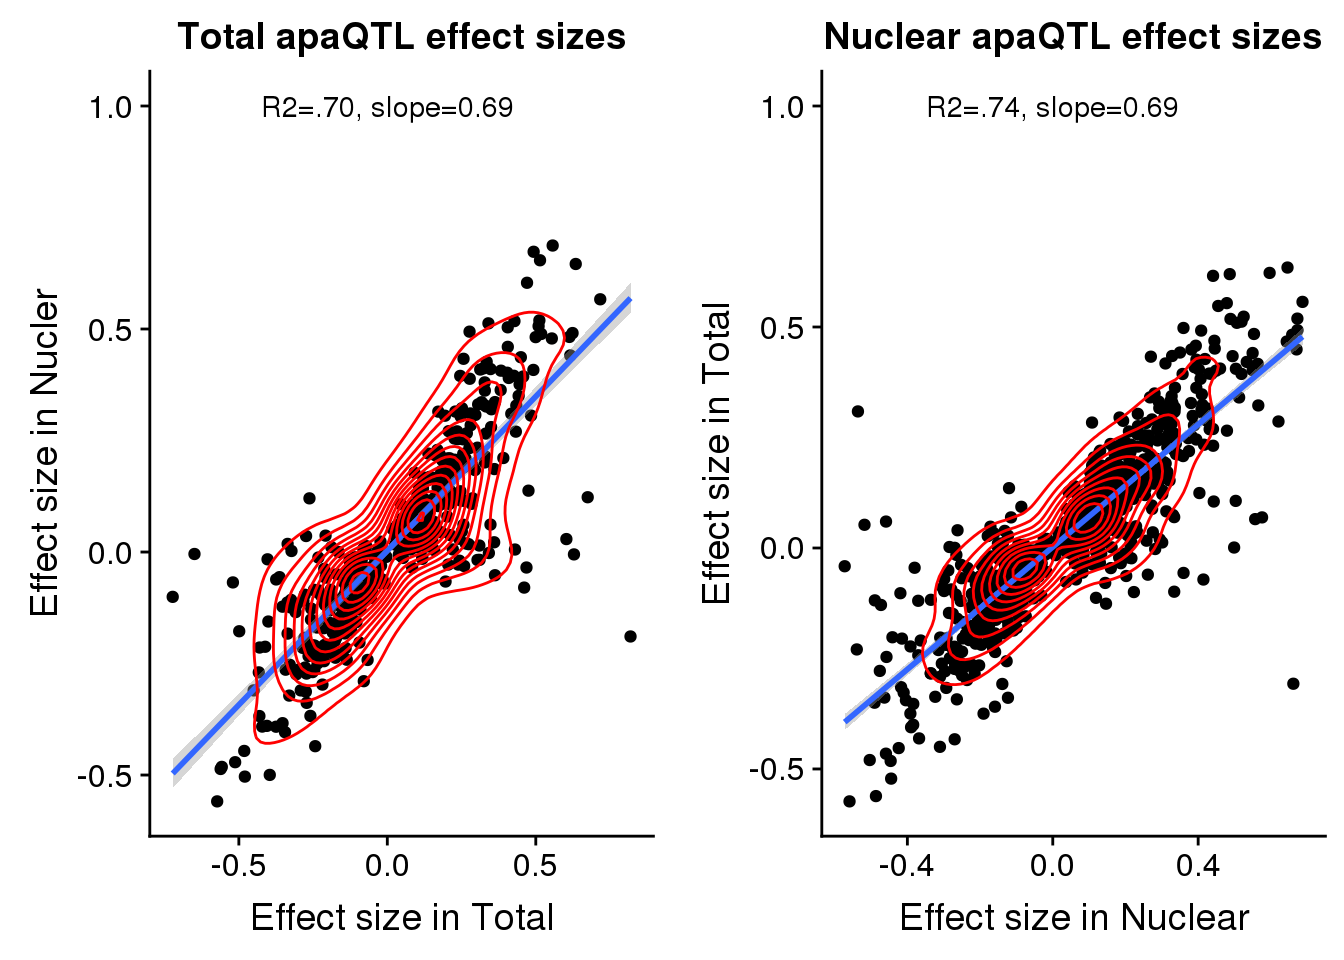
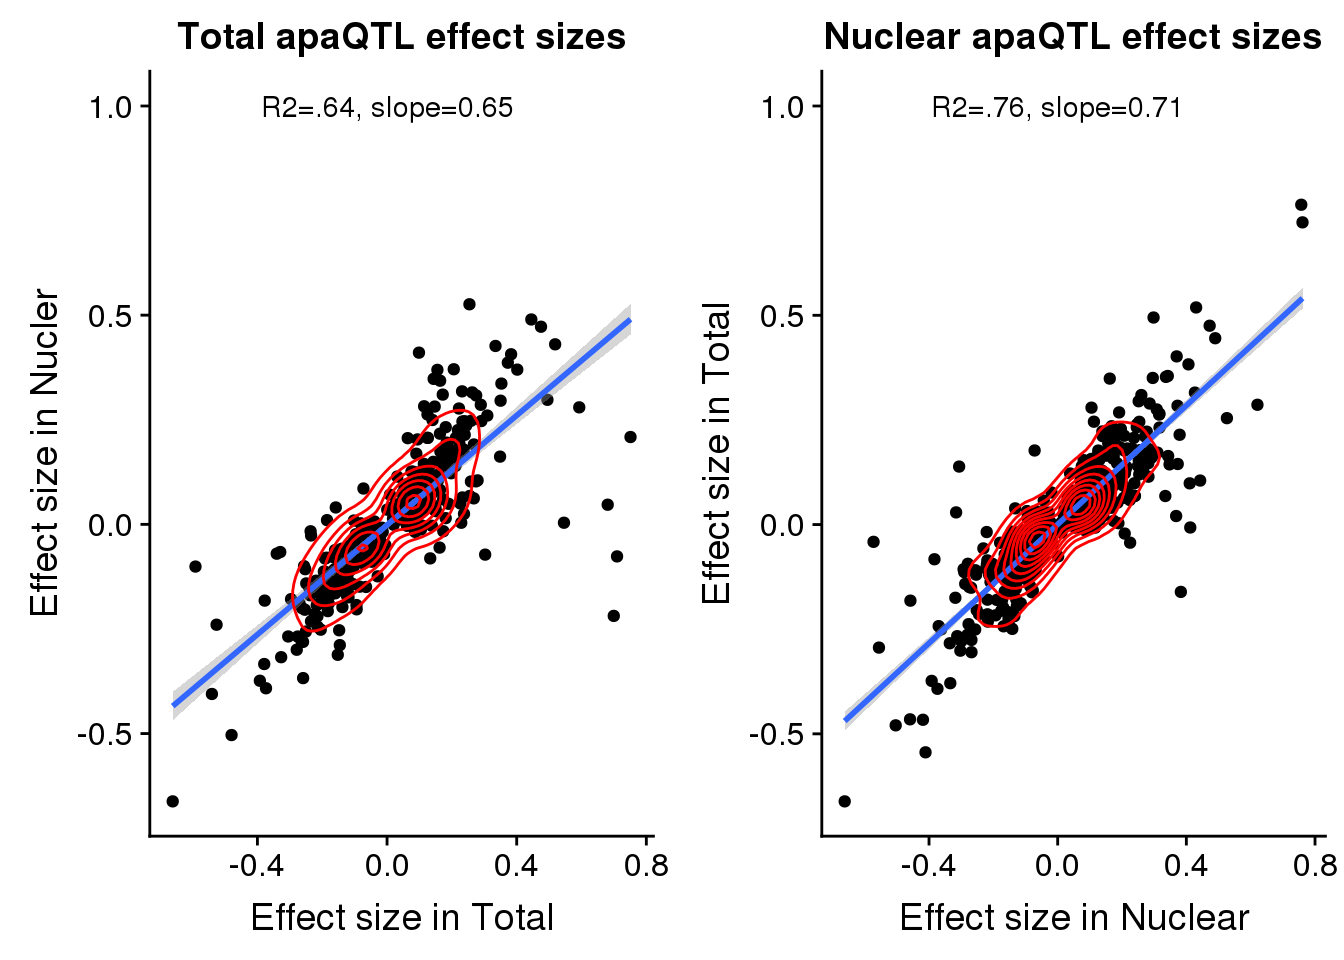
Build site.

diff --git a/docs/nonNormQTL.html b/docs/nonNormQTL.html
@@ -343,7 +343,7 @@ div.section {
 <div class="tab-content">
 <div id="summary" class="tab-pane fade in active">
 <p>
-<strong>Last updated:</strong> 2019-06-11
+<strong>Last updated:</strong> 2019-06-13
 </p>
 <p>
 <strong>Checks:</strong> <span class="glyphicon glyphicon-ok text-success" aria-hidden="true"></span> 6 <span class="glyphicon glyphicon-exclamation-sign text-danger" aria-hidden="true"></span> 0
@@ -422,10 +422,10 @@ This reproducible <a href="http://rmarkdown.rstudio.com">R Markdown</a> analysis
 <div class="panel panel-default">
 <div class="panel-heading">
 <p class="panel-title">
-<a data-toggle="collapse" data-parent="#workflowr-checks" href="#strongRepositoryversionstrongahrefhttpsgithubcombrimittlemanapaQTLtreecd24c16d24e93a4215fe989452901d889e7b3d00targetblankcd24c16a"> <span class="glyphicon glyphicon-ok text-success" aria-hidden="true"></span> <strong>Repository version:</strong> <a href="https://github.com/brimittleman/apaQTL/tree/cd24c16d24e93a4215fe989452901d889e7b3d00" target="_blank">cd24c16</a> </a>
+<a data-toggle="collapse" data-parent="#workflowr-checks" href="#strongRepositoryversionstrongahrefhttpsgithubcombrimittlemanapaQTLtree968cb4bd991960619bfe28be8c0a7ae8958e175atargetblank968cb4ba"> <span class="glyphicon glyphicon-ok text-success" aria-hidden="true"></span> <strong>Repository version:</strong> <a href="https://github.com/brimittleman/apaQTL/tree/968cb4bd991960619bfe28be8c0a7ae8958e175a" target="_blank">968cb4b</a> </a>
 </p>
 </div>
[2 lines of base64/hex data omitted]
 <div class="panel-body">
 <p>
 Great! You are using Git for version control. Tracking code development and connecting the code version to the results is critical for reproducibility. The version displayed above was the version of the Git repository at the time these results were generated. <br><br> Note that you need to be careful to ensure that all relevant files for the analysis have been committed to Git prior to generating the results (you can use <code>wflow_publish</code> or <code>wflow_git_commit</code>). workflowr only checks the R Markdown file, but you know if there are other scripts or data files that it depends on. Below is the status of the Git repository when the results were generated:
@@ -435,6 +435,7 @@ Ignored files:
     Ignored:    .DS_Store
     Ignored:    .Rhistory
     Ignored:    .Rproj.user/
+    Ignored:    data/.DS_Store
     Ignored:    output/.DS_Store
 
 Untracked files:
@@ -444,6 +445,7 @@ Untracked files:
     Untracked:  _workflowr.yml
     Untracked:  analysis/._PASdescriptiveplots.Rmd
     Untracked:  analysis/._cuttoffPercUsage.Rmd
+    Untracked:  analysis/QTLexampleplots.Rmd
     Untracked:  analysis/cuttoffPercUsage.Rmd
     Untracked:  analysis/eQTLoverlap.Rmd
     Untracked:  analysis/oldstuffNotNeeded.Rmd
@@ -466,6 +468,8 @@ Untracked files:
     Untracked:  code/._NascentRNAdtPlotintronicPAS.sh
     Untracked:  code/._NascnetRNAdtPlotPAS.sh
     Untracked:  code/._NetSeq_fourthintronDT.sh
+    Untracked:  code/._QTL2bed.py
+    Untracked:  code/._QTL2bed_withstrand.py
     Untracked:  code/._SnakefilePAS
     Untracked:  code/._SnakefilefiltPAS
     Untracked:  code/._TESplots100bp.sh
@@ -495,12 +499,14 @@ Untracked files:
     Untracked:  code/._config.yaml
     Untracked:  code/._config2.yaml
     Untracked:  code/._configOLD.yaml
+    Untracked:  code/._convertNominal2SNPLOC.py
     Untracked:  code/._convertNumeric.py
     Untracked:  code/._correctNomeqtl.R
     Untracked:  code/._dag.pdf
     Untracked:  code/._eQTLgenestestedapa.py
     Untracked:  code/._encodeRNADTplots.sh
     Untracked:  code/._extractGenotypes.py
+    Untracked:  code/._extractseqfromqtlfastq.py
     Untracked:  code/._fc2leafphen.py
     Untracked:  code/._filter5perc.R
     Untracked:  code/._filter5percPheno.py
@@ -525,6 +531,7 @@ Untracked files:
     Untracked:  code/._getIntronDownstreamPAS.py
     Untracked:  code/._getIntronUpstreamPAS.py
     Untracked:  code/._getQTLalleles.py
+    Untracked:  code/._getQTLfastq.sh
     Untracked:  code/._getUpstreamIntronNuclear.py
     Untracked:  code/._grouptranscripts.py
     Untracked:  code/._keep5perMAF.py
@@ -562,6 +569,8 @@ Untracked files:
     Untracked:  code/._runMakeEmpiricaleQTL_unexp.sh
     Untracked:  code/._runMakeeQTLempirical.sh
     Untracked:  code/._run_getApaPval4eqtl.sh
+    Untracked:  code/._run_getapafromeQTL.py
+    Untracked:  code/._run_getapafromeQTL.sh
     Untracked:  code/._run_getapapval4eqtl_unexp.sh
     Untracked:  code/._run_leafcutterDiffIso.sh
     Untracked:  code/._run_sepUsagephen.sh
@@ -643,6 +652,8 @@ Untracked files:
     Untracked:  code/NascentRNAdtPlotintronicPAS.sh
     Untracked:  code/NascnetRNAdtPlotPAS.sh
     Untracked:  code/NetSeq_fourthintronDT.sh
+    Untracked:  code/QTL2bed.py
+    Untracked:  code/QTL2bed_withstrand.py
     Untracked:  code/README.md
     Untracked:  code/Rplots.pdf
     Untracked:  code/TESplots100bp.err
@@ -661,6 +672,7 @@ Untracked files:
     Untracked:  code/apaQTLCorrectPvalMakeQQ_4pc.R
     Untracked:  code/apaQTL_Nominal_4pc.sh
     Untracked:  code/apaQTL_permuted.4pc.sh
+    Untracked:  code/apafacetboxplots.R
     Untracked:  code/apaqtlfacetboxplots.R
     Untracked:  code/assignNucIntonpeak2intronlocs.sh
     Untracked:  code/assignPeak2Intronicregion.err
@@ -679,6 +691,7 @@ Untracked files:
     Untracked:  code/bothFrac_FC.out
     Untracked:  code/bothFrac_FC.sh
     Untracked:  code/codingdms2bed.py
+    Untracked:  code/convertNominal2SNPLOC.py
     Untracked:  code/correctNomeqtl.R
     Untracked:  code/dag.pdf
     Untracked:  code/dagPAS.pdf
@@ -686,6 +699,7 @@ Untracked files:
     Untracked:  code/eQTLgenestestedapa.py
     Untracked:  code/encodeRNADTplots.sh
     Untracked:  code/extractGenotypes.py
+    Untracked:  code/extractseqfromqtlfastq.py
     Untracked:  code/fc2leafphen.py
     Untracked:  code/finalPASbed2SAF.py
     Untracked:  code/findbuginpeaks.R
@@ -711,6 +725,7 @@ Untracked files:
     Untracked:  code/getIntronDownstreamPAS.py
     Untracked:  code/getIntronUpstreamPAS.py
     Untracked:  code/getQTLalleles.py
+    Untracked:  code/getQTLfastq.sh
     Untracked:  code/getSeq100up.sh
     Untracked:  code/getUpstreamIntronNuclear.py
     Untracked:  code/getseq100up.err
@@ -769,11 +784,14 @@ Untracked files:
     Untracked:  code/run_DistPAS2Sig.err
     Untracked:  code/run_DistPAS2Sig.out
     Untracked:  code/run_distPAS2Sig.sh
+    Untracked:  code/run_getAPAfromanyeQTL.err
+    Untracked:  code/run_getAPAfromanyeQTL.out
     Untracked:  code/run_getApaPval4eQTLs.err
     Untracked:  code/run_getApaPval4eQTLs.out
     Untracked:  code/run_getApaPval4eQTLsunexplained.err
     Untracked:  code/run_getApaPval4eQTLsunexplained.out
     Untracked:  code/run_getApaPval4eqtl.sh
+    Untracked:  code/run_getapafromeQTL.sh
     Untracked:  code/run_getapapval4eqtl_unexp.sh
     Untracked:  code/run_leafcutterDiffIso.sh
     Untracked:  code/run_leafcutter_ds.err
@@ -788,6 +806,8 @@ Untracked files:
     Untracked:  code/selectNominalPvalues.py
     Untracked:  code/sepUsagePhen.py
     Untracked:  code/sepgenobychrom.py
+    Untracked:  code/seqQTLfastq.err
+    Untracked:  code/seqQTLfastq.out
     Untracked:  code/seqQTLregion.err
     Untracked:  code/seqQTLregion.out
     Untracked:  code/snakePASlog.out
@@ -811,6 +831,7 @@ Untracked files:
     Untracked:  code/vcf_keepsnps.out
     Untracked:  code/zipandtabPhen.err
     Untracked:  code/zipandtabPhen.out
+    Untracked:  data/._.DS_Store
     Untracked:  data/ApaByEgene/
     Untracked:  data/CompareOldandNew/
     Untracked:  data/DTmatrix/
@@ -885,13 +906,8 @@ Untracked files:
     Untracked:  output/meanCorrelationPhenotypes.svg
 
 Unstaged changes:
-    Modified:   analysis/DiffIsoAnalysis.Rmd
-    Modified:   analysis/PASusageQC.Rmd
     Modified:   analysis/Readdistagainstfeatures.Rmd
-    Modified:   analysis/choosePCs.Rmd
-    Modified:   analysis/corrbetweenind.Rmd
-    Modified:   analysis/exvunexpeQTL.Rmd
-    Modified:   analysis/mapapaQTL.Rmd
+    Modified:   analysis/index.Rmd
     Modified:   analysis/motifDisruption.Rmd
     Modified:   analysis/nascenttranscription.Rmd
     Modified:   analysis/nucintronicanalysis.Rmd
@@ -901,12 +917,16 @@ Unstaged changes:
     Modified:   code/Snakefile
     Deleted:    code/Upstream10Bases_general.py
     Modified:   code/apaQTLCorrectPvalMakeQQ.R
+    Modified:   code/apaQTL_Nominal.sh
     Modified:   code/apaQTL_permuted.sh
     Modified:   code/apaQTLsnake.err
     Modified:   code/bam2bw.sh
     Modified:   code/bed2saf.py
     Modified:   code/cluster.json
+    Modified:   code/clusterfiltPAS.json
     Modified:   code/config.yaml
+    Modified:   code/environment.yaml
+    Modified:   code/makePheno.py
     Deleted:    code/test.txt
 
 </code></pre>
@@ -946,6 +966,40 @@ Message
 </tr>
 </thead>
 <tbody>
+<tr>
+<td>
+Rmd
+</td>
+<td>
+<a href="https://github.com/brimittleman/apaQTL/blob/968cb4bd991960619bfe28be8c0a7ae8958e175a/analysis/nonNormQTL.Rmd" target="_blank">968cb4b</a>
+</td>
+<td>
+brimittleman
+</td>
+<td>
+2019-06-13
+</td>
+<td>
+wflow_publish(“analysis/nonNormQTL.Rmd”)
+</td>
+</tr>
+<tr>
+<td>
+html
+</td>
+<td>
+<a href="https://rawcdn.githack.com/brimittleman/apaQTL/230bc6aa446b8afdf2ecb72483661a323bf6d98a/docs/nonNormQTL.html" target="_blank">230bc6a</a>
+</td>
+<td>
+brimittleman
+</td>
+<td>
+2019-06-11
+</td>
+<td>
+Build site.
+</td>
+</tr>
 <tr>
 <td>
 Rmd
@@ -1145,12 +1199,12 @@ add code to prepare non norm qtl
 <pre><code>This is workflowr version 1.3.0
 Run ?workflowr for help getting started</code></pre>
 <pre class="r"><code>library(tidyverse)</code></pre>
-<pre><code>── Attaching packages ───────────────────────────────────────────────────────────── tidyverse 1.2.1 ──</code></pre>
+<pre><code>── Attaching packages ─────────────────────────────────────────────────────────────── tidyverse 1.2.1 ──</code></pre>
 <pre><code>✔ ggplot2 3.1.1       ✔ purrr   0.3.2  
 ✔ tibble  2.1.1       ✔ dplyr   0.8.0.1
 ✔ tidyr   0.8.3       ✔ stringr 1.3.1  
 ✔ readr   1.3.1       ✔ forcats 0.3.0  </code></pre>
-<pre><code>── Conflicts ──────────────────────────────────────────────────────────────── tidyverse_conflicts() ──
+<pre><code>── Conflicts ────────────────────────────────────────────────────────────────── tidyverse_conflicts() ──
 ✖ dplyr::filter() masks stats::filter()
 ✖ dplyr::lag()    masks stats::lag()</code></pre>
 <pre class="r"><code>library(cowplot)</code></pre>
@@ -1187,8 +1241,8 @@ write.table(nucUsageAnno,file=&quot;../data/nonNorm_pheno/NuclearUsageAllChrom.t
 sbatch ZipandTabPheno.sh
 sbatch ApaQTL_nominalNonnorm.sh</code></pre>
 <p>Concatinate files:</p>
-<pre class="bash"><code>cat  TotalUsageChrom*.nominal.out &gt; TotalUsageChrom_Nominal_AllChrom.txt
-cat  NuclearUsageChrom*.nominal.out &gt; NuclearUsageChrom_Nominal_AllChrom.txt
+<pre class="bash"><code>cat  ../data/nonNorm_pheno/TotalUsageChrom*.nominal.out &gt; ../data/nonNorm_pheno/TotalUsageChrom_Nominal_AllChrom.txt
+cat ../data/nonNorm_pheno/NuclearUsageChrom*.nominal.out &gt; ../data/nonNorm_pheno/NuclearUsageChrom_Nominal_AllChrom.txt
 </code></pre>
 </div>
 <div id="pull-out-real-total-and-nuc-qlts" class="section level2">
@@ -1221,19 +1275,19 @@ lm(formula = TotBoth$slope ~ TotBoth$Originalslope)
 
 Residuals:
      Min       1Q   Median       3Q      Max 
--0.75870 -0.05126 -0.00033  0.05173  0.44152 
+-0.67522 -0.03343 -0.00022  0.03521  0.36113 
 
 Coefficients:
-                      Estimate Std. Error t value Pr(&gt;|t|)    
-(Intercept)           0.003053   0.005320   0.574    0.566    
-TotBoth$Originalslope 0.691393   0.020880  33.112   &lt;2e-16 ***
+                       Estimate Std. Error t value Pr(&gt;|t|)    
+(Intercept)           -0.001467   0.004703  -0.312    0.755    
+TotBoth$Originalslope  0.654634   0.024603  26.608   &lt;2e-16 ***
 ---
 Signif. codes:  0 &#39;***&#39; 0.001 &#39;**&#39; 0.01 &#39;*&#39; 0.05 &#39;.&#39; 0.1 &#39; &#39; 1
 
-Residual standard error: 0.1141 on 468 degrees of freedom
-Multiple R-squared:  0.7008,    Adjusted R-squared:  0.7002 
-F-statistic:  1096 on 1 and 468 DF,  p-value: &lt; 2.2e-16</code></pre>
-<pre class="r"><code>totbothplot=ggplot(TotBoth, aes(x=Originalslope, y=slope))+geom_point() + geom_smooth(method=&quot;lm&quot;) + labs(title=&quot;Total apaQTL effect sizes&quot;, x=&quot;Effect size in Total&quot;,y=&quot;Effect size in Nucler&quot;) + geom_density_2d(col=&quot;red&quot;) + annotate(&quot;text&quot;, y=1, x=0, label=&quot;R2=.70, slope=0.69&quot;)</code></pre>
+Residual standard error: 0.09434 on 404 degrees of freedom
+Multiple R-squared:  0.6367,    Adjusted R-squared:  0.6358 
+F-statistic:   708 on 1 and 404 DF,  p-value: &lt; 2.2e-16</code></pre>
+<pre class="r"><code>totbothplot=ggplot(TotBoth, aes(x=Originalslope, y=slope))+geom_point() + geom_smooth(method=&quot;lm&quot;) + labs(title=&quot;Total apaQTL effect sizes&quot;, x=&quot;Effect size in Total&quot;,y=&quot;Effect size in Nucler&quot;) + geom_density_2d(col=&quot;red&quot;) + annotate(&quot;text&quot;, y=1, x=0, label=&quot;R2=.64, slope=0.65&quot;)</code></pre>
 </div>
 <div id="nuclear" class="section level2">
 <h2>Nuclear</h2>
@@ -1245,19 +1299,19 @@ lm(formula = NucBoth$slope ~ NucBoth$Originalslope)
 
 Residuals:
      Min       1Q   Median       3Q      Max 
--0.76781 -0.03805  0.00122  0.03909  0.67769 
+-0.43316 -0.03363  0.00088  0.02970  0.36456 
 
 Coefficients:
-                      Estimate Std. Error t value Pr(&gt;|t|)    
-(Intercept)           0.002420   0.003209   0.754    0.451    
-NucBoth$Originalslope 0.692385   0.013990  49.491   &lt;2e-16 ***
+                       Estimate Std. Error t value Pr(&gt;|t|)    
+(Intercept)           0.0004951  0.0028911   0.171    0.864    
+NucBoth$Originalslope 0.7098391  0.0165009  43.018   &lt;2e-16 ***
 ---
 Signif. codes:  0 &#39;***&#39; 0.001 &#39;**&#39; 0.01 &#39;*&#39; 0.05 &#39;.&#39; 0.1 &#39; &#39; 1
 
-Residual standard error: 0.0932 on 874 degrees of freedom
-Multiple R-squared:  0.737, Adjusted R-squared:  0.7367 
-F-statistic:  2449 on 1 and 874 DF,  p-value: &lt; 2.2e-16</code></pre>
-<pre class="r"><code>Nucbothplot=ggplot(NucBoth, aes(x=Originalslope, y=slope))+geom_point() + geom_smooth(method=&quot;lm&quot;) + labs(title=&quot;Nuclear apaQTL effect sizes&quot;, x=&quot;Effect size in Nuclear&quot;,y=&quot;Effect size in Total&quot;) + geom_density_2d(col=&quot;red&quot;) +  annotate(&quot;text&quot;, y=1, x=0, label=&quot;R2=.74, slope=0.69&quot;)</code></pre>
+Residual standard error: 0.07032 on 591 degrees of freedom
+Multiple R-squared:  0.7579,    Adjusted R-squared:  0.7575 
+F-statistic:  1851 on 1 and 591 DF,  p-value: &lt; 2.2e-16</code></pre>
+<pre class="r"><code>Nucbothplot=ggplot(NucBoth, aes(x=Originalslope, y=slope))+geom_point() + geom_smooth(method=&quot;lm&quot;) + labs(title=&quot;Nuclear apaQTL effect sizes&quot;, x=&quot;Effect size in Nuclear&quot;,y=&quot;Effect size in Total&quot;) + geom_density_2d(col=&quot;red&quot;) +  annotate(&quot;text&quot;, y=1, x=0, label=&quot;R2=.76, slope=0.71&quot;)</code></pre>
 <pre class="r"><code>plot_grid(totbothplot,Nucbothplot)</code></pre>
 <p><img src="figure/nonNormQTL.Rmd/unnamed-chunk-10-1.png" width="672" style="display: block; margin: auto;" /></p>
 <p>
@@ -1282,6 +1336,17 @@ Date
 </tr>
 </thead>
 <tbody>
+<tr>
+<td>
+<a href="https://github.com/brimittleman/apaQTL/blob/230bc6aa446b8afdf2ecb72483661a323bf6d98a/docs/figure/nonNormQTL.Rmd/unnamed-chunk-10-1.png" target="_blank">230bc6a</a>
+</td>
+<td>
+brimittleman
+</td>
+<td>
+2019-06-11
+</td>
+</tr>
 <tr>
 <td>
 <a href="https://github.com/brimittleman/apaQTL/blob/de2aa7e872b874661b292dfd3f2f50dcab2b28cc/docs/figure/nonNormQTL.Rmd/unnamed-chunk-10-1.png" target="_blank">de2aa7e</a>
